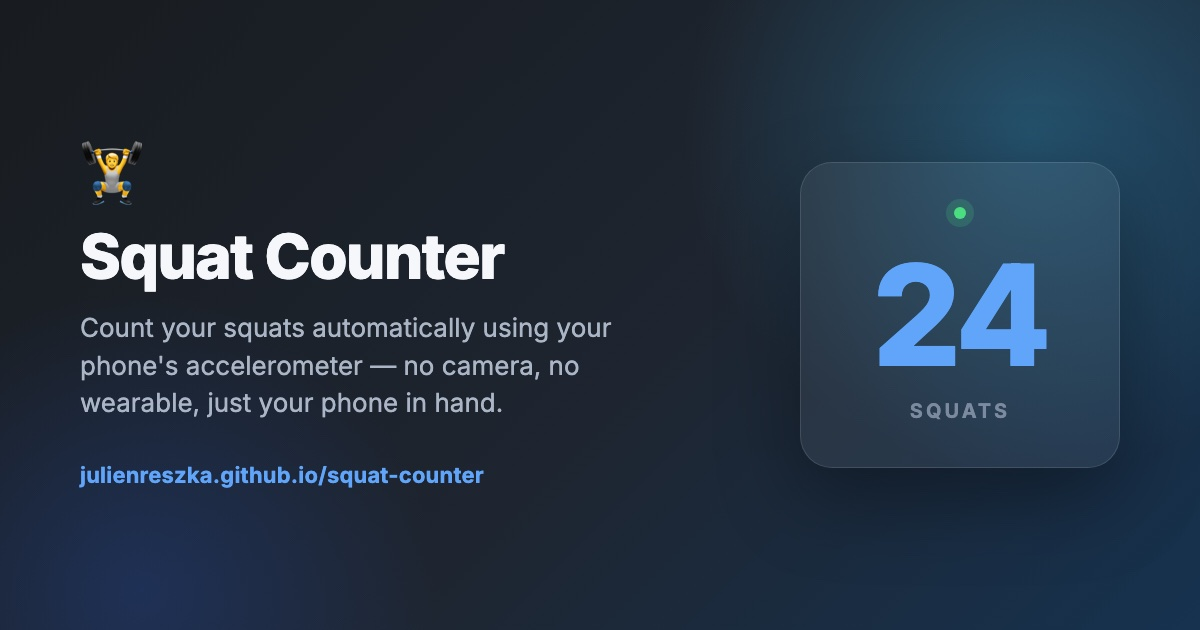
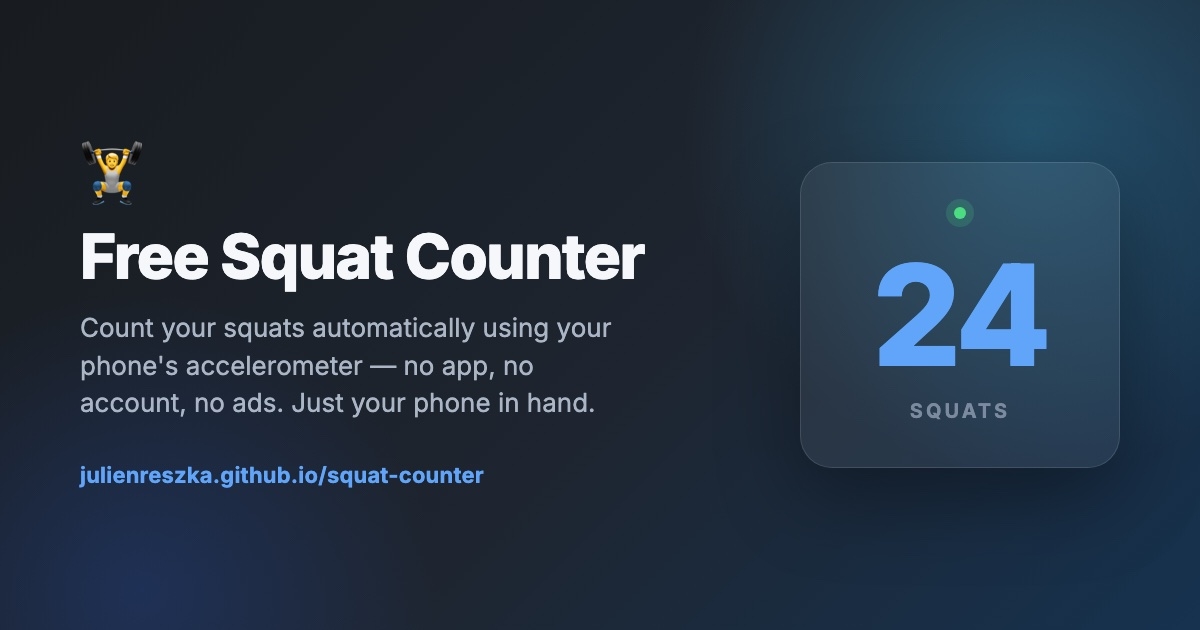
feat: brand as "Free Squat Counter" throughout
Adds "Free" to title, headings, meta/OG/Twitter tags, the homepage
link, and regenerates the OG preview image to match.

Changed region(s): [[0.0617, 0.3619, 0.555, 0.4825], [0.0617, 0.573, 0.4933, 0.6635]]

diff --git a/squat-counter/index.html b/squat-counter/index.html
@@ -6,10 +6,10 @@
       name="viewport"
       content="width=device-width, initial-scale=1.0, maximum-scale=1.0, user-scalable=no"
     />
-    <title>Squat Counter — Julien Reszka</title>
+    <title>Free Squat Counter — Julien Reszka</title>
     <meta
       name="description"
-      content="Count your squats automatically using your phone's accelerometer. Works best held in your hand."
+      content="Free squat counter that uses your phone's accelerometer to count reps automatically. No app, no account, no ads. Works best held in your hand."
     />
 
     <!-- Open Graph / Facebook -->
@@ -18,10 +18,10 @@
       property="og:url"
       content="https://julienreszka.github.io/squat-counter/"
     />
-    <meta property="og:title" content="Squat Counter - Julien Reszka" />
+    <meta property="og:title" content="Free Squat Counter - Julien Reszka" />
     <meta
       property="og:description"
-      content="Count your squats automatically using your phone's accelerometer. Works best held in your hand."
+      content="Free squat counter that uses your phone's accelerometer to count reps automatically. No app, no account, no ads. Works best held in your hand."
     />
     <meta
       property="og:image"
@@ -36,10 +36,10 @@
       property="twitter:url"
       content="https://julienreszka.github.io/squat-counter/"
     />
-    <meta property="twitter:title" content="Squat Counter - Julien Reszka" />
+    <meta property="twitter:title" content="Free Squat Counter - Julien Reszka" />
     <meta
       property="twitter:description"
-      content="Count your squats automatically using your phone's accelerometer. Works best held in your hand."
+      content="Free squat counter that uses your phone's accelerometer to count reps automatically. No app, no account, no ads. Works best held in your hand."
     />
     <meta
       property="twitter:image"
@@ -413,11 +413,11 @@
   <body>
     <div class="wrap">
       <a class="back" href="../index.html">&larr; Julien Reszka's Github Pages</a>
-      <h1>🏋 Squat Counter</h1>
+      <h1>🏋 Free Squat Counter</h1>
       <p class="sub">
-        Uses your phone's accelerometer to detect and count squats
-        automatically — works best held in your hand, since your pocket
-        muffles and dampens the motion.
+        Free — no app, no account, no ads. Uses your phone's accelerometer to
+        detect and count squats automatically — works best held in your
+        hand, since your pocket muffles and dampens the motion.
       </p>
 
       <div class="error-box" id="errorBox"></div>

diff --git a/index.html b/index.html
@@ -175,7 +175,7 @@
         🔬 Try Comet Assay Pro
       </a>
       <a class="sim-link" href="squat-counter/index.html" style="margin-top: 1rem;">
-        🏋 Try the Squat Counter
+        🏋 Try the Free Squat Counter
       </a>
       <p style="font-size: 0.98rem; color: #7b8794">
         More content coming soon. Stay tuned!
